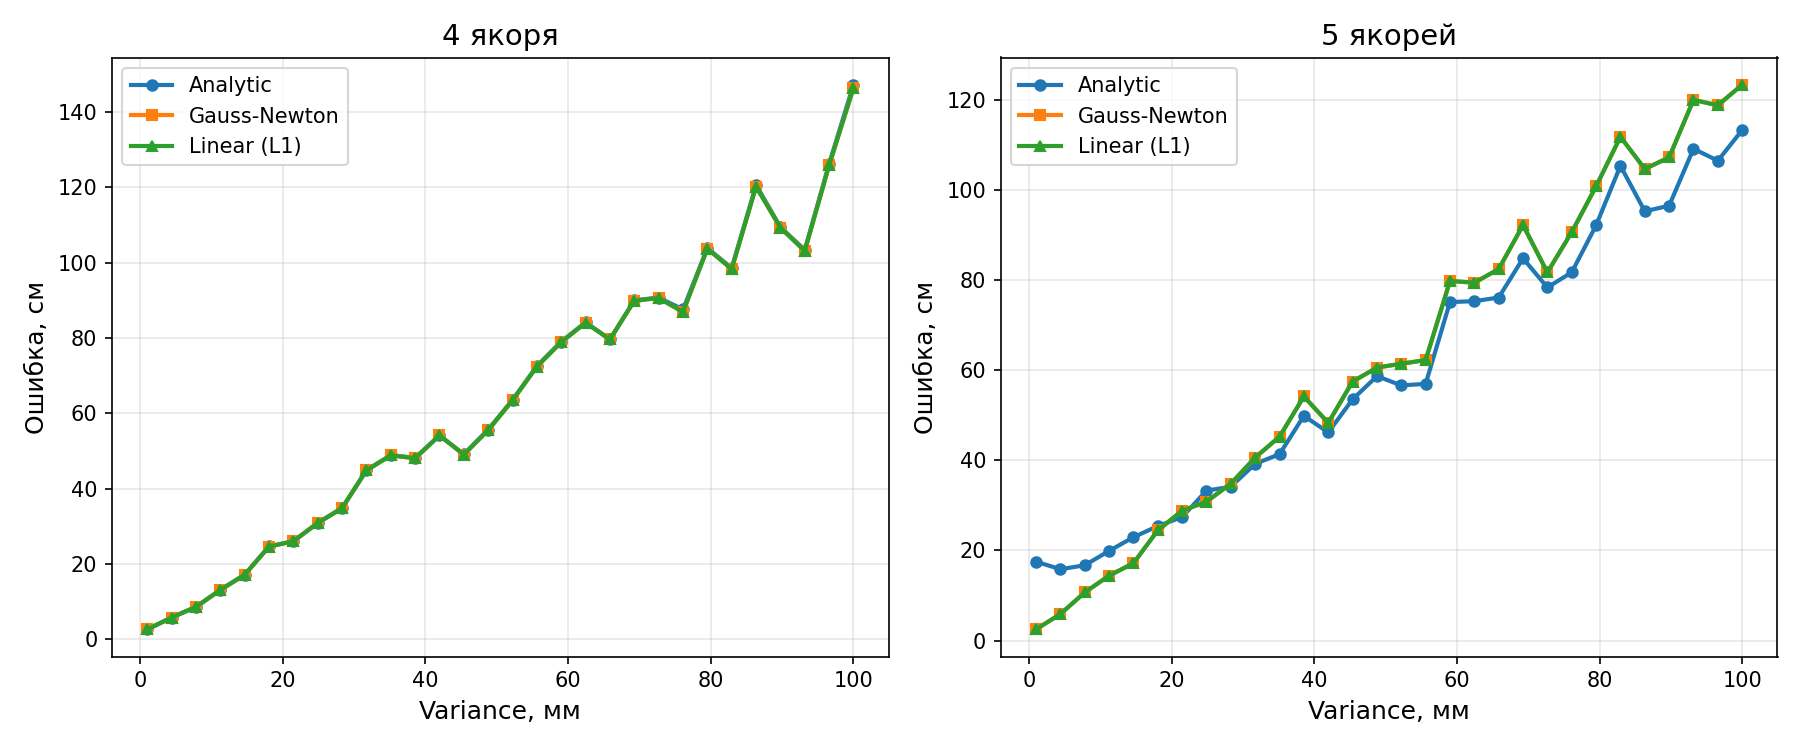
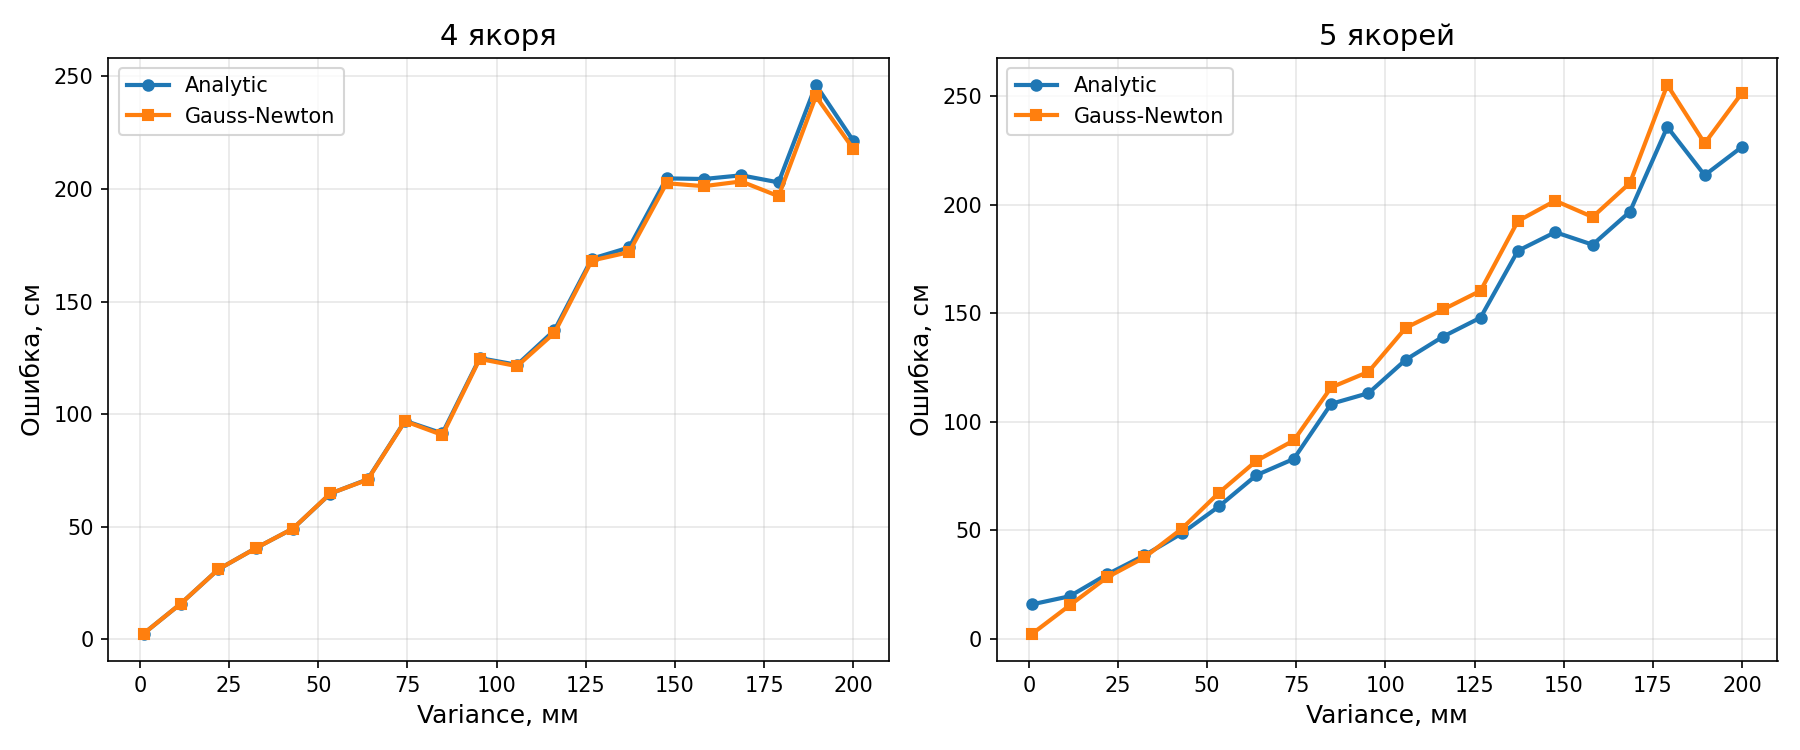
del: убрать linear loss; range: до 0.2м; ppt: график вместо таблицы

diff --git a/plot_error.py b/plot_error.py
@@ -9,17 +9,16 @@ from simulation import run_experiment, SENSORS_4, SENSORS_5
 
 
 def sweep_variance(sensors, variance_values, n_measurements=50, bias_std=0.0012):
-    results = {'analytic': [], 'gauss_newton': [], 'linear': []}
+    results = {'analytic': [], 'gauss_newton': []}
     for var in variance_values:
         data = run_experiment(sensors, n=n_measurements, bias_std=bias_std, variance_std=var)
         results['analytic'].append(data[:, 0].mean())
         results['gauss_newton'].append(data[:, 1].mean())
-        results['linear'].append(data[:, 2].mean())
     return results
 
 
 def plot_error_vs_variance():
-    variance_values = np.linspace(0.001, 0.1, 30)  # 1мм - 10см
+    variance_values = np.linspace(0.001, 0.2, 20)  # 1мм - 20см
     
     print("Расчёт для 4 якорей...")
     results_4 = sweep_variance(SENSORS_4, variance_values)
@@ -34,10 +33,8 @@ def plot_error_vs_variance():
     ax1 = axes[0]
     y_an = np.array(results_4['analytic']) * 100
     y_gn = np.array(results_4['gauss_newton']) * 100
-    y_lin = np.array(results_4['linear']) * 100
     ax1.plot(x, y_an, 'o-', label='Analytic', linewidth=2, markersize=5)
     ax1.plot(x, y_gn, 's-', label='Gauss-Newton', linewidth=2, markersize=5)
-    ax1.plot(x, y_lin, '^-', label='Linear (L1)', linewidth=2, markersize=5)
     ax1.set_xlabel('Variance, мм', fontsize=12)
     ax1.set_ylabel('Ошибка, см', fontsize=12)
     ax1.set_title('4 якоря', fontsize=14)
@@ -48,10 +45,8 @@ def plot_error_vs_variance():
     ax2 = axes[1]
     y2_an = np.array(results_5['analytic']) * 100
     y2_gn = np.array(results_5['gauss_newton']) * 100
-    y2_lin = np.array(results_5['linear']) * 100
     ax2.plot(x, y2_an, 'o-', label='Analytic', linewidth=2, markersize=5)
     ax2.plot(x, y2_gn, 's-', label='Gauss-Newton', linewidth=2, markersize=5)
-    ax2.plot(x, y2_lin, '^-', label='Linear (L1)', linewidth=2, markersize=5)
     ax2.set_xlabel('Variance, мм', fontsize=12)
     ax2.set_ylabel('Ошибка, см', fontsize=12)
     ax2.set_title('5 якорей', fontsize=14)
@@ -59,7 +54,7 @@ def plot_error_vs_variance():
     ax2.grid(True, alpha=0.3)
     
     plt.tight_layout()
-    plt.savefig('images/error_vs_variance.png', dpi=150)
+    plt.savefig('error_vs_variance.png', dpi=150)
     print("Сохранено в error_vs_variance.png")
     plt.show()
 

diff --git a/simulation.py b/simulation.py
@@ -7,12 +7,10 @@ from scipy.optimize import least_squares
 
 
 def add_noise(value, noise_width):
-    """Равномерный шум [-w/2, +w/2]"""
     return value + (np.random.rand() - 0.5) * noise_width
 
 
 def analytic_solution_three(P1, P2, P3, r1, r2, r3):
-    """Решение по 3 точкам (триангуляция), возвращает z > 0"""
     A = np.array([
         2 * (P2 - P1)[:2],
         2 * (P3 - P1)[:2]
@@ -50,17 +48,6 @@ def gauss_newton_manual(sensors, distances, x0, max_iter=50, tol=1e-6):
     return x
 
 
-def solve_linear_loss(sensors, distances, x0):
-    res = least_squares(
-        residuals, x0,
-        args=(sensors, distances),
-        method='trf',
-        loss='linear',
-        max_nfev=200
-    )
-    return res.x, res.cost
-
-
 SENSORS_4 = np.array([
     [-1, -1, 0], [-1, 1, 0], [1, -1, 0], [1, 1, 0],
 ])
@@ -92,21 +79,19 @@ def run_trial(sensors, H=20, bias_std=0.05, variance_std=0.1):
     x0 = sols[0] if sols else np.array([0, 0, H])
 
     gn = gauss_newton_manual(sensors, noisy_dist, x0)
-    linear, _ = solve_linear_loss(sensors, noisy_dist, x0)
 
-    return true_pos, analytic, gn, linear
+    return true_pos, analytic, gn
 
 
 def run_experiment(sensors, n=20, bias_std=0.05, variance_std=0.1):
     results = []
     for _ in range(n):
-        true_pos, analytic, gn, linear = run_trial(
+        true_pos, analytic, gn = run_trial(
             sensors, H=20, bias_std=bias_std, variance_std=variance_std
         )
         if analytic is None:
             continue
         err_an = np.linalg.norm(analytic - true_pos)
         err_gn = np.linalg.norm(gn - true_pos)
-        err_lin = np.linalg.norm(linear - true_pos)
-        results.append([err_an, err_gn, err_lin])
+        results.append([err_an, err_gn])
     return np.array(results)
